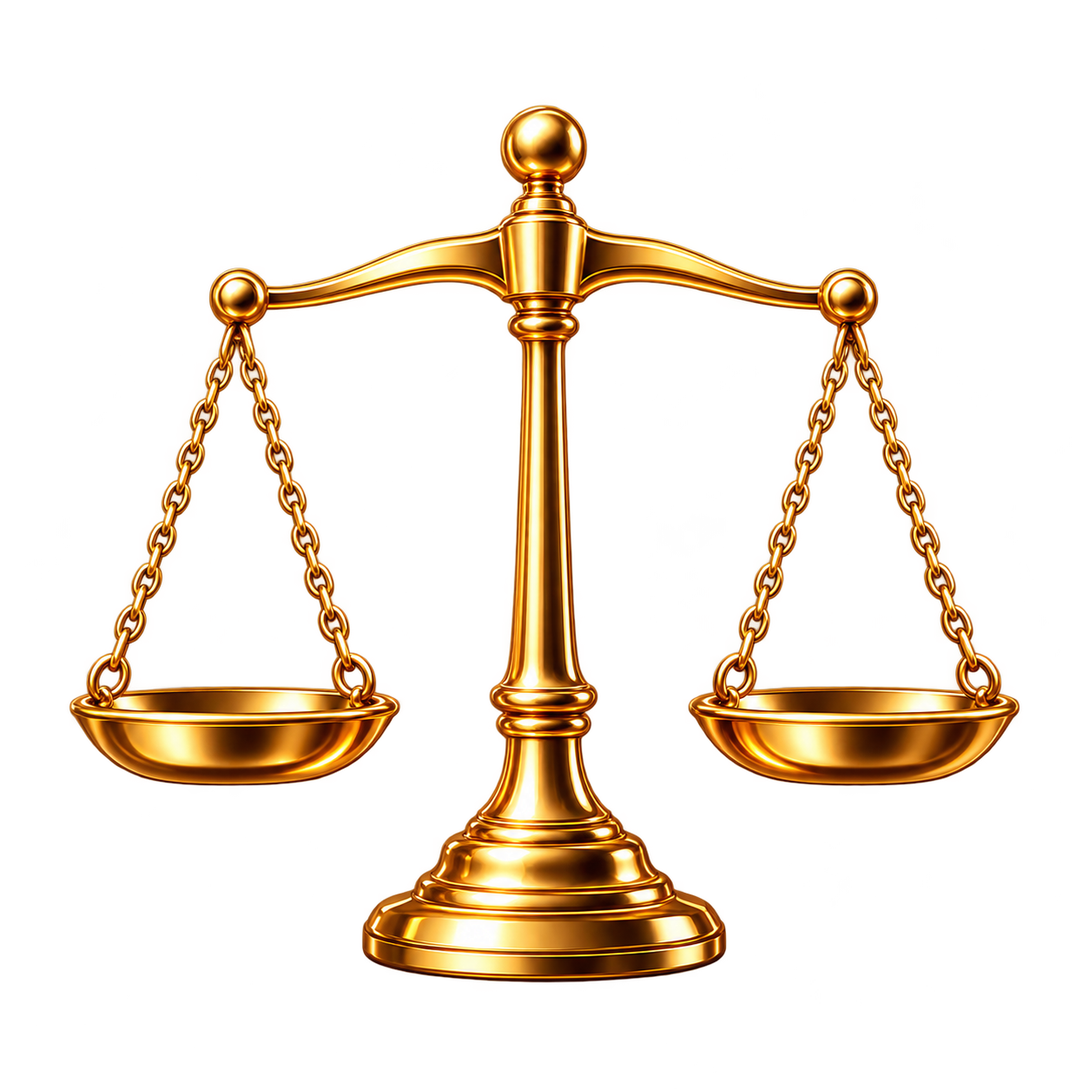
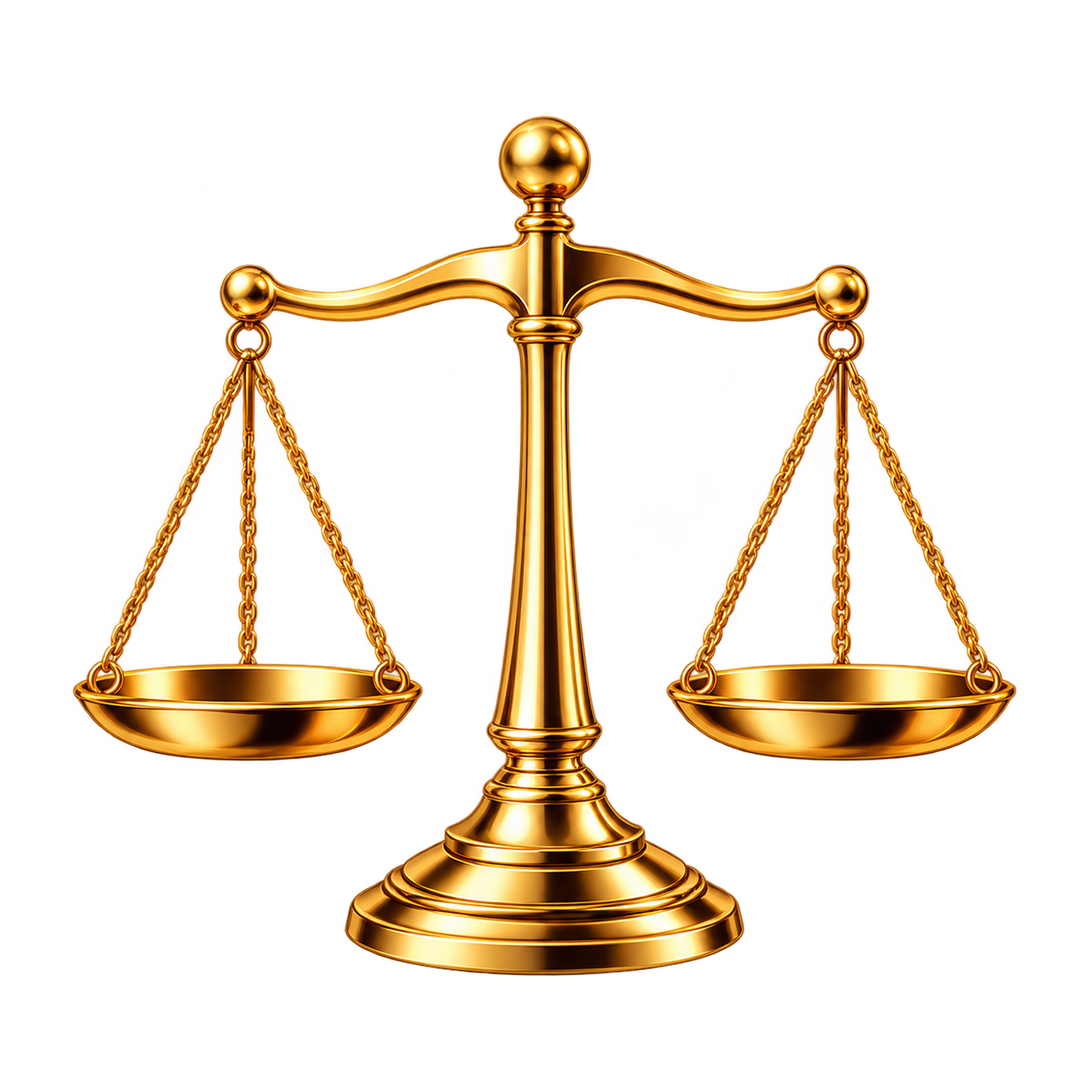
Add files via upload

Changed region(s): [[0.0622, 0.0933, 0.933, 0.9019]]

diff --git a/app.js b/app.js
@@ -4,8 +4,8 @@
    ===================================================================== */
 'use strict';
 
-var APP_VERSION='5.0.772';
-var APP_BUILD='5772';
+var APP_VERSION='5.0.773';
+var APP_BUILD='5773';
 
 /* ------------------------- state + encrypted local storage ------------------------- */
 var KEY = 'advokat_pro_v1'; // legacy localStorage key (migration only)
@@ -275,14 +275,14 @@ function materializeUseIcons(){
 }
 materializeUseIcons();
 function headerBell(){
-  return '<button class="today-bell app-header-bell premium-action-image" style="appearance:none!important;-webkit-appearance:none!important;position:absolute!important;top:0!important;right:2px!important;left:auto!important;bottom:auto!important;box-sizing:border-box!important;width:50px!important;height:50px!important;min-width:50px!important;min-height:50px!important;max-width:50px!important;max-height:50px!important;margin:0!important;padding:0!important;border:0!important;border-radius:15px!important;background:transparent!important;box-shadow:none!important;opacity:1!important;display:flex!important;align-items:center!important;justify-content:center!important;line-height:1!important;transform:none!important;filter:none!important;z-index:20!important" data-act="notify-sheet" aria-label="Уведомления"><img class="premium-action-art" src="header-bell-premium.png?v=5772" alt=""></button>';
+  return '<button class="today-bell app-header-bell premium-action-image" style="appearance:none!important;-webkit-appearance:none!important;position:absolute!important;top:0!important;right:2px!important;left:auto!important;bottom:auto!important;box-sizing:border-box!important;width:50px!important;height:50px!important;min-width:50px!important;min-height:50px!important;max-width:50px!important;max-height:50px!important;margin:0!important;padding:0!important;border:0!important;border-radius:15px!important;background:transparent!important;box-shadow:none!important;opacity:1!important;display:flex!important;align-items:center!important;justify-content:center!important;line-height:1!important;transform:none!important;filter:none!important;z-index:20!important" data-act="notify-sheet" aria-label="Уведомления"><img class="premium-action-art" src="header-bell-premium.png?v=5773" alt=""></button>';
 }
 function headerSearch(action,active,label){
   action=action||'global-search';
   label=label||'Поиск';
   var cls='app-header-search premium-action-image'+(active?' on':'');
   var style='appearance:none!important;-webkit-appearance:none!important;box-sizing:border-box!important;width:50px!important;height:50px!important;min-width:50px!important;min-height:50px!important;max-width:50px!important;max-height:50px!important;margin:0!important;padding:0!important;border:0!important;border-radius:15px!important;background:transparent!important;box-shadow:none!important;opacity:1!important;display:flex!important;align-items:center!important;justify-content:center!important;line-height:1!important;transform:none!important;filter:none!important';
-  return '<button class="'+cls+'" style="'+style+'" data-act="'+esc(action)+'" title="'+esc(label)+'" aria-label="'+esc(label)+'" type="button"><img class="premium-action-art" src="header-search-premium.png?v=5772" alt=""></button>';
+  return '<button class="'+cls+'" style="'+style+'" data-act="'+esc(action)+'" title="'+esc(label)+'" aria-label="'+esc(label)+'" type="button"><img class="premium-action-art" src="header-search-premium.png?v=5773" alt=""></button>';
 }
 function matterHeaderAction(action,icon,active,label,extraClass){
   label=label||'';
@@ -291,11 +291,11 @@ function matterHeaderAction(action,icon,active,label,extraClass){
 function headerMatterFilter(active){
   var cls='today-bell app-header-filter premium-action-image'+(active?' on':'');
   var style='appearance:none!important;-webkit-appearance:none!important;position:absolute!important;top:0!important;right:2px!important;left:auto!important;bottom:auto!important;box-sizing:border-box!important;width:50px!important;height:50px!important;min-width:50px!important;min-height:50px!important;max-width:50px!important;max-height:50px!important;margin:0!important;padding:0!important;border:0!important;border-radius:15px!important;background:transparent!important;box-shadow:none!important;opacity:1!important;display:flex!important;align-items:center!important;justify-content:center!important;line-height:1!important;transform:none!important;filter:none!important;z-index:20!important;overflow:visible!important';
-  return '<button class="'+cls+'" style="'+style+'" data-act="matter-filter-sheet" title="Фильтры и сортировка" aria-label="Фильтры и сортировка" type="button"><img class="premium-action-art" src="header-filter-premium.png?v=5772" alt=""></button>';
+  return '<button class="'+cls+'" style="'+style+'" data-act="matter-filter-sheet" title="Фильтры и сортировка" aria-label="Фильтры и сортировка" type="button"><img class="premium-action-art" src="header-filter-premium.png?v=5773" alt=""></button>';
 }
 function mainBrandHeader(withBell,rightAction){
   var bell = rightAction || (withBell===false ? '' : headerBell());
-  return '<div class="today-brand main-brand-fixed app-main-brand" style="position:relative!important;box-sizing:border-box!important;width:100%!important;height:52px!important;min-height:52px!important;max-height:52px!important;margin:0 0 8px!important;padding:0 2px!important;display:flex!important;align-items:center!important;justify-content:flex-start!important;gap:12px!important;transform:none!important"><div class="today-brand-left"><span class="today-logo"><img src="scale-gold.webp?v=5772" alt="Весы правосудия"></span><div><b>Ежедневник адвоката</b><small>Больше, чем календарь</small></div></div>'+bell+'</div>';
+  return '<div class="today-brand main-brand-fixed app-main-brand" style="position:relative!important;box-sizing:border-box!important;width:100%!important;height:52px!important;min-height:52px!important;max-height:52px!important;margin:0 0 8px!important;padding:0 2px!important;display:flex!important;align-items:center!important;justify-content:flex-start!important;gap:12px!important;transform:none!important"><div class="today-brand-left"><span class="today-logo"><img src="scale-gold.webp?v=5773" alt="Весы правосудия"></span><div><b>Ежедневник адвоката</b><small>Больше, чем календарь</small></div></div>'+bell+'</div>';
 }
 function brandLine(){ return '<div class="brandline">'+ico('scale','s')+'<span>Ежедневник адвоката</span><i>OFFLINE</i></div>'; }
 function iso(d){ return d.getFullYear()+'-'+String(d.getMonth()+1).padStart(2,'0')+'-'+String(d.getDate()).padStart(2,'0'); }
@@ -723,12 +723,12 @@ function renderPremiumListPicker(){
   // спокойной командой и не смешивается с реальными делами и их категориями.
   var canClear=isMatterPicker&&LIST_PICKER.target==='e-mid'&&!!String(LIST_PICKER.selected||'').trim();
   var clearMatter=canClear?'<button type="button" class="premium-matter-clear" data-act="list-matter-clear">'+ico('xmark','s')+'<span>Снять привязку к делу</span></button>':'';
-  var headIconHtml=isCourtPicker?'<span class="premium-list-head-icon premium-court-head-scales"><img src="scale-gold.webp?v=5772" alt="Весы правосудия"></span>':'<span class="premium-list-head-icon">'+ico(LIST_PICKER.meta.icon||'list')+'</span>';
+  var headIconHtml=isCourtPicker?'<span class="premium-list-head-icon premium-court-head-scales"><img src="scale-gold.webp?v=5773" alt="Весы правосудия"></span>':'<span class="premium-list-head-icon">'+ico(LIST_PICKER.meta.icon||'list')+'</span>';
   modal.innerHTML='<div class="premium-list-grab"></div>'+ 
     '<div class="premium-list-head">'+headIconHtml+'<div><h3>'+esc(LIST_PICKER.meta.title)+'</h3><p>'+esc(LIST_PICKER.meta.sub)+'</p></div><button type="button" class="premium-list-close" data-act="list-close" aria-label="Закрыть">'+ico('xmark','s')+'</button></div>'+ 
     '<div class="premium-list-ornament" aria-hidden="true"><i></i><span></span><i></i></div>'+ 
     search+'<div class="premium-list-body">'+list+'</div>'+clearMatter+ 
-    '<div class="premium-list-sign"><i></i><span><img class="premium-list-sign-logo" src="scale-gold.webp?v=5772" alt="Весы правосудия"></span><i></i></div>';
+    '<div class="premium-list-sign"><i></i><span><img class="premium-list-sign-logo" src="scale-gold.webp?v=5773" alt="Весы правосудия"></span><i></i></div>';
 }
 
 function syncPremiumSelectButton(id){
@@ -2670,7 +2670,7 @@ function drawHearingResultSheet(){
     '<div class="fld hearing-result-note-field"><label>Итог / примечание</label><div class="hearing-result-note-shell"><textarea id="hr-note" rows="4" maxlength="1000" placeholder="Например: допрошен свидетель, исследованы материалы, суд отложил рассмотрение…">'+esc(noteValue)+'</textarea></div></div>'+ 
     '<div class="hint hearing-result-hint"><span class="hearing-result-hint-icon">'+ico('info','s')+'</span><p>После сохранения заседание уйдёт с главной страницы и останется в истории. Для связанного дела результат автоматически попадёт в журнал.</p></div>'+ 
     '<div class="hearing-result-v355-action"><button class="btn hearing-result-save" data-act="hearing-result-save"><span>Сохранить результат</span>'+ico('chev','s')+'</button></div>'+ 
-    '<div class="hearing-result-v355-sign" aria-hidden="true"><i></i><span><img src="scale-gold.webp?v=5772" alt="Весы правосудия"></span><i></i></div>');
+    '<div class="hearing-result-v355-sign" aria-hidden="true"><i></i><span><img src="scale-gold.webp?v=5773" alt="Весы правосудия"></span><i></i></div>');
   var sheet=$('#sheet');
   sheet.classList.add('hearing-result-sheet','hearing-result-v355');
   sheet.scrollTop=oldScroll;
@@ -2781,7 +2781,7 @@ function sheetTaskTypeFilters(){
 
   openSheet(
     '<div class="filter-premium-head task-filter-premium-head">'+
-      '<span class="task-filter-brand-mark"><img src="scale-gold.webp?v=5772" alt=""></span>'+
+      '<span class="task-filter-brand-mark"><img src="scale-gold.webp?v=5773" alt=""></span>'+
       '<div class="task-filter-head-copy"><h2>Фильтр записей</h2><p>Выберите тип записи</p></div>'+
       '<button type="button" class="task-filter-close" data-act="close" aria-label="Закрыть">'+ico('xmark','s')+'</button>'+
     '</div>'+
@@ -2940,7 +2940,7 @@ function sheetMatterFilters(){
     row('m-sort','stage','flag','По стадии','По этапу производства',sortCount,'#7D5CE4',S.ui.matterSort==='stage');
   openSheet(
     '<div class="matter-filter-premium-head">'+
-      '<span class="matter-filter-brand-mark"><img src="scale-gold.webp?v=5772" alt=""></span>'+ 
+      '<span class="matter-filter-brand-mark"><img src="scale-gold.webp?v=5773" alt=""></span>'+ 
       '<div class="matter-filter-head-copy"><h2>Фильтр дел</h2><p>Состояние, тип, основание, стадия и сортировка</p></div>'+ 
       '<button type="button" class="matter-filter-close" data-act="close" aria-label="Закрыть">'+ico('xmark','s')+'</button>'+ 
     '</div>'+ 
@@ -3916,7 +3916,7 @@ function renderQuickEntryTop190(title,currentKind){
   var longTitle=title.length>20?' qe190-title-long':'';
   if(editTitle) longTitle+=' qe190-title-edit';
   return '<section class="qe190-top qe190-kind-'+esc(currentKind)+(editTitle?' qe190-mode-edit':' qe190-mode-create')+'">'+
-    '<div class="qe190-brand"><img src="scale-gold.webp?v=5772" alt="Весы правосудия"><div class="qe190-brand-copy"><b>Ежедневник адвоката</b><small>Больше, чем календарь</small></div></div>'+
+    '<div class="qe190-brand"><img src="scale-gold.webp?v=5773" alt="Весы правосудия"><div class="qe190-brand-copy"><b>Ежедневник адвоката</b><small>Больше, чем календарь</small></div></div>'+
     '<div class="qe190-brand-rule" aria-hidden="true"><i></i><span></span><i></i></div>'+
     '<div class="qe190-heading">'+
       '<button type="button" class="qe190-back" data-act="close" aria-label="Назад">'+ico('left')+'</button>'+
@@ -4651,11 +4651,11 @@ function quickItem(i,t,act,tone){
      восстановленным по утверждённому макету 5.100. Иконка и золотая дуга больше
      не собираются из двух независимых фрагментов, поэтому стык не может разойтись. */
   var art={
-    'qa-hearing':'quick-card-hearing-v5100.png?v=5772',
-    'qa-meeting':'quick-card-meeting-v5100.png?v=5772',
-    'qa-deadline':'quick-card-deadline-v5100.png?v=5772',
-    'qa-task':'quick-card-task-v5100.png?v=5772',
-    'qa-journal':'quick-card-journal-v5100.png?v=5772'
+    'qa-hearing':'quick-card-hearing-v5100.png?v=5773',
+    'qa-meeting':'quick-card-meeting-v5100.png?v=5773',
+    'qa-deadline':'quick-card-deadline-v5100.png?v=5773',
+    'qa-task':'quick-card-task-v5100.png?v=5773',
+    'qa-journal':'quick-card-journal-v5100.png?v=5773'
   }[act]||'';
   if(art){
     return '<button class="quickitem quickitem-v5100 q-'+(tone||'slate')+'" data-act="'+act+'" aria-label="'+esc(t)+'"><img class="quickcard-v5100" src="'+art+'" alt=""></button>';
@@ -4664,7 +4664,7 @@ function quickItem(i,t,act,tone){
 }
 function premiumActionIcon(type,cls){
   cls=cls||'premium-sheet-action-icon';
-  var src=type==='bell'?'header-bell-premium.png?v=5772':type==='search'?'header-search-premium.png?v=5772':type==='plus'?'fab-plus-square-premium.png?v=5772':'';
+  var src=type==='bell'?'header-bell-premium.png?v=5773':type==='search'?'header-search-premium.png?v=5773':type==='plus'?'fab-plus-square-premium.png?v=5773':'';
   if(src) return '<span class="'+cls+'"><img src="'+src+'" alt=""></span>';
   return '<span class="filter-premium-head-icon">'+ico(type)+'</span>';
 }
@@ -4773,7 +4773,7 @@ function sheetGlobalSearch(){
   openSheet('<section class="gs166 gs153">'+
     '<header class="gs166-head gs153-head">'+
       '<div class="gs166-head-copy gs153-head-copy"><h2>Глобальный поиск</h2><p><span>Доверители, номера дел, суды, статьи,</span><span>задачи и журнал.</span></p></div>'+
-      '<img class="gs166-head-motif" src="global-search-head-motif-v173.png?v=5772" alt="" aria-hidden="true">'+
+      '<img class="gs166-head-motif" src="global-search-head-motif-v173.png?v=5773" alt="" aria-hidden="true">'+
     '</header>'+
     '<div class="gs166-searchwrap">'+
       '<label class="gs166-search gs153-search" for="gq">'+
@@ -4815,7 +4815,7 @@ function sheetGlobalSearch(){
         '<button type="button" class="gs153-close" data-act="global-search-clear-tip" aria-label="Закрыть подсказку">'+ico('xmark','s')+'</button>'+
       '</div>'+
     '</div>'+
-    '<footer class="gs166-footer gs153-footer"><span></span><img src="reminder-footer-scales-exact.png?v=5772" alt=""><span></span><b>ПРАВО И ПОРЯДОК</b></footer>'+
+    '<footer class="gs166-footer gs153-footer"><span></span><img src="reminder-footer-scales-exact.png?v=5773" alt=""><span></span><b>ПРАВО И ПОРЯДОК</b></footer>'+
   '</section>');
   $('#sheet').classList.add('global-search-premium-v166-sheet');
   renderGlobalSearch();
@@ -5146,7 +5146,7 @@ function sheetNotify(){
   openSheet('<section class="rem116">'+
     '<header class="rem116-head">'+
       '<div class="rem116-head-copy"><h2>Напоминания</h2><p><span>Локальное напоминание за 10 минут</span><span>до задачи и за час до заседания.</span></p></div>'+
-      '<img class="rem116-head-motif" src="reminder-head-motif-exact.png?v=5772" alt="">'+
+      '<img class="rem116-head-motif" src="reminder-head-motif-exact.png?v=5773" alt="">'+
     '</header>'+
     '<article class="rem116-card rem116-card-local">'+
       '<span class="rem116-card-icon">'+ico('bell','s')+'</span>'+
@@ -5160,7 +5160,7 @@ function sheetNotify(){
     '</article>'+
     '<button class="rem116-toggle" data-act="notify" type="button" aria-label="'+toggleText+'"><span class="rem116-toggle-bell">'+ico('bell','s')+'</span><span class="rem116-toggle-text">'+toggleText+'</span><span class="rem116-toggle-chevron">'+ico('chev','s')+'</span></button>'+
     '<p class="rem116-note">Вы всегда сможете включить их снова в настройках.</p>'+
-    '<footer class="rem116-footer"><span></span><img class="rem116-footer-scale" src="reminder-footer-scales-exact.png?v=5772" alt=""><span></span><b>ДЕЛА В ПОРЯДКЕ</b></footer>'+
+    '<footer class="rem116-footer"><span></span><img class="rem116-footer-scale" src="reminder-footer-scales-exact.png?v=5773" alt=""><span></span><b>ДЕЛА В ПОРЯДКЕ</b></footer>'+
   '</section>');
   $('#sheet').classList.add('reminders-approved-v117-sheet');
 }
@@ -6161,7 +6161,7 @@ if('serviceWorker' in navigator){
        register only after the UI is already usable; do not force an update,
        reload, navigation or controller switch during launch. */
     setTimeout(function(){
-      navigator.serviceWorker.register('./sw.js?v=5772',{updateViaCache:'none'})
+      navigator.serviceWorker.register('./sw.js?v=5773',{updateViaCache:'none'})
         .then(function(reg){ return reg.update().catch(function(){}); })
         .catch(function(){});
     },1400);
@@ -6310,7 +6310,7 @@ function matterFolderTypeIcon(type){
   return type==='admin'?'scale':type==='criminal'?'gavel':type==='civil'?'people':'doc';
 }
 
-// Staged reconstruction of folder contents. 5.0.772 keeps the approved type label
+// Staged reconstruction of folder contents. 5.0.773 keeps the approved type label
 // and now mounts the first large 3D icon for every production type, using the
 // standalone rendered assets approved from the mockup.
 var MATTER_FOLDER_SHOW_CONTENT=false;
@@ -6669,8 +6669,8 @@ function matterCard(m, idx){
   var fullMeta=[m.stage,m.court].filter(Boolean).join(' · '),meta=matterFolderCompactMeta(m);
   var statusText=badge?(badge.tone==='result'?'Нужно внести результат заседания':badge.tone==='urgent'?'Есть просроченные записи':badge.text):'';
   var accessible=['Открыть дело: '+(m.client||lead),subject,m.number?'№ '+m.number:'',fullMeta,statusText,next.text].filter(Boolean).join('. ');
-  // 5.0.772 — keep only the production type on the approved inner tab for now.
-  // 5.0.772 — stage 3: mount the approved standalone icon for each folder type.
+  // 5.0.773 — keep only the production type on the approved inner tab for now.
+  // 5.0.773 — stage 3: mount the approved standalone icon for each folder type.
   // No other content is mounted yet, so the approved folder shell remains the visual baseline.
   var inner='<span class="case-folder-label">'+esc(label)+'</span>';
   var stage3Kind=matterFolderStage3IconType(type);

diff --git a/index.html b/index.html
@@ -2,25 +2,25 @@
 <html lang="ru">
 <head>
 <meta charset="utf-8">
-<meta name="app-build" content="5772">
+<meta name="app-build" content="5773">
 <meta name="viewport" content="width=device-width,initial-scale=1,maximum-scale=1,viewport-fit=cover">
 <title>Ежедневник адвоката</title>
-<link rel="manifest" href="manifest.webmanifest?v=5772">
-<link rel="stylesheet" href="styles.css?v=5772">
-<link rel="stylesheet" href="new-matter-client.css?v=5772">
-<link rel="stylesheet" href="new-matter-stage.css?v=5772">
-<link rel="stylesheet" href="new-matter-values.css?v=5772">
-<link rel="stylesheet" href="new-matter-save.css?v=5772">
-<link rel="stylesheet" href="cases-folders.css?v=5772">
-<link rel="preload" href="app.js?v=5772" as="script">
-<link rel="preload" href="scale-gold.webp?v=5772" as="image" fetchpriority="high">
+<link rel="manifest" href="manifest.webmanifest?v=5773">
+<link rel="stylesheet" href="styles.css?v=5773">
+<link rel="stylesheet" href="new-matter-client.css?v=5773">
+<link rel="stylesheet" href="new-matter-stage.css?v=5773">
+<link rel="stylesheet" href="new-matter-values.css?v=5773">
+<link rel="stylesheet" href="new-matter-save.css?v=5773">
+<link rel="stylesheet" href="cases-folders.css?v=5773">
+<link rel="preload" href="app.js?v=5773" as="script">
+<link rel="preload" href="scale-gold.webp?v=5773" as="image" fetchpriority="high">
 <link rel="preload" href="bg-today-desk.webp" as="image">
 <link rel="preload" href="nav-panel-light.png" as="image">
-<link rel="preload" href="nav-active-today.png?v=5772" as="image">
-<link rel="preload" href="header-bell-premium.png?v=5772" as="image">
-<link rel="preload" href="header-search-premium.png?v=5772" as="image">
-<link rel="preload" href="fab-plus-square-premium.png?v=5772" as="image">
-<link rel="preload" href="quick-sheet-mobile-approved-v5211.webp?v=5772" as="image">
+<link rel="preload" href="nav-active-today.png?v=5773" as="image">
+<link rel="preload" href="header-bell-premium.png?v=5773" as="image">
+<link rel="preload" href="header-search-premium.png?v=5773" as="image">
+<link rel="preload" href="fab-plus-square-premium.png?v=5773" as="image">
+<link rel="preload" href="quick-sheet-mobile-approved-v5211.webp?v=5773" as="image">
 <meta name="theme-color" content="#F4F6F9">
 <meta name="mobile-web-app-capable" content="yes">
 <meta name="apple-mobile-web-app-capable" content="yes">
@@ -29,17 +29,17 @@
 <meta name="apple-mobile-web-app-title" content="Адвокат">
 <meta name="format-detection" content="telephone=no">
 <meta name="color-scheme" content="light">
-<link rel="apple-touch-icon" sizes="180x180" href="premium-icon-180.png?v=5772">
-<link rel="apple-touch-icon-precomposed" sizes="180x180" href="premium-icon-180.png?v=5772">
-<link rel="icon" href="premium-icon-192.png?v=5772">
+<link rel="apple-touch-icon" sizes="180x180" href="premium-icon-180.png?v=5773">
+<link rel="apple-touch-icon-precomposed" sizes="180x180" href="premium-icon-180.png?v=5773">
+<link rel="icon" href="premium-icon-192.png?v=5773">
 <style id="ios-pwa-nav-critical">
 :root{--ios-nav-top:calc(100dvh - 75px);--ios-fab-top:calc(100dvh - 144px)}
 #tabbar.premium-nav{position:fixed!important;left:12px!important;right:12px!important;top:var(--ios-nav-top)!important;bottom:auto!important;z-index:1000!important}
 #fab.fab{position:fixed!important;top:var(--ios-fab-top)!important;bottom:auto!important;z-index:1001!important}
 @media(max-width:390px){:root{--ios-nav-top:calc(100dvh - 73px);--ios-fab-top:calc(100dvh - 137px)}#tabbar.premium-nav{left:10px!important;right:10px!important}#fab.fab{top:var(--ios-fab-top)!important;bottom:auto!important}}
 </style>
-<link rel="preload" href="premium-gold-type-v5249.webp?v=5772" as="image" type="image/webp">
-<link rel="preload" href="premium-gold-save-v5249.webp?v=5772" as="image" type="image/webp">
+<link rel="preload" href="premium-gold-type-v5249.webp?v=5773" as="image" type="image/webp">
+<link rel="preload" href="premium-gold-save-v5249.webp?v=5773" as="image" type="image/webp">
 </head>
 <body class="light">
 
@@ -229,6 +229,6 @@
 </div>
 
 <input type="file" id="file" accept=".json" style="display:none">
-<script src="app.js?v=5772"></script>
+<script src="app.js?v=5773"></script>
 </body>
 </html>

diff --git a/sw.js b/sw.js
@@ -1,62 +1,62 @@
-const CACHE = 'advokat-iphone-offline-v151-premium-5772';
+const CACHE = 'advokat-iphone-offline-v151-premium-5773';
 
 const CORE = [
   './',
   './index.html',
-  './styles.css?v=5772',
-  './cases-folders.css?v=5772',
-  './new-matter-client.css?v=5772',
-  './new-matter-stage.css?v=5772',
-  './new-matter-values.css?v=5772',
-  './new-matter-save.css?v=5772',
-  './app.js?v=5772',
-  './manifest.webmanifest?v=5772',
+  './styles.css?v=5773',
+  './cases-folders.css?v=5773',
+  './new-matter-client.css?v=5773',
+  './new-matter-stage.css?v=5773',
+  './new-matter-values.css?v=5773',
+  './new-matter-save.css?v=5773',
+  './app.js?v=5773',
+  './manifest.webmanifest?v=5773',
   './VERSION.txt',
   './premium-icon-180.png',
   './premium-icon-192.png',
   './premium-icon-512.png',
-  './premium-icon-180.png?v=5772',
-  './premium-icon-192.png?v=5772',
+  './premium-icon-180.png?v=5773',
+  './premium-icon-192.png?v=5773',
   './bg-today-desk.webp',
   './bg-tasks-planner.webp',
   './bg-matters-folders.webp',
   './bg-matters-approved-v487.png',
-  './scale-gold.webp?v=5772',
+  './scale-gold.webp?v=5773',
   './bg-cal-marble-calendar.webp',
   './bg-more-marble-office.webp',
-  './premium-gold-type-v5249.webp?v=5772',
-  './premium-gold-save-v5249.webp?v=5772',
-  './quick-sheet-mobile-approved-v5211.webp?v=5772',
-  './quick-sheet-marble-approved.webp?v=5772',
-  './columns-light.png?v=5772',
-  './header-bell-premium.png?v=5772',
-  './header-search-premium.png?v=5772',
-  './header-filter-premium.png?v=5772',
-  './bg-new-matter-approved.webp?v=5772',
-  './nm-folder-mockup.png?v=5772',
-  './nm-scale-mockup.png?v=5772',
-  './nm-doc-mockup.png?v=5772',
-  './global-search-head-motif-v173.png?v=5772',
-  './fab-plus-square-premium.png?v=5772',
+  './premium-gold-type-v5249.webp?v=5773',
+  './premium-gold-save-v5249.webp?v=5773',
+  './quick-sheet-mobile-approved-v5211.webp?v=5773',
+  './quick-sheet-marble-approved.webp?v=5773',
+  './columns-light.png?v=5773',
+  './header-bell-premium.png?v=5773',
+  './header-search-premium.png?v=5773',
+  './header-filter-premium.png?v=5773',
+  './bg-new-matter-approved.webp?v=5773',
+  './nm-folder-mockup.png?v=5773',
+  './nm-scale-mockup.png?v=5773',
+  './nm-doc-mockup.png?v=5773',
+  './global-search-head-motif-v173.png?v=5773',
+  './fab-plus-square-premium.png?v=5773',
   './nav-panel-light.png',
-  './nav-panel-light.png?v=5772',
-  './nav-active-base.png?v=5772',
-  './nav-active-today.png?v=5772',
-  './nav-active-tasks.png?v=5772',
-  './nav-active-cases.png?v=5772',
-  './nav-active-calendar.png?v=5772',
-  './nav-active-more.png?v=5772',
-  './reminder-head-motif-exact.png?v=5772',
-  './reminder-footer-scales-exact.png?v=5772',
-  './quick-card-task-v5100.png?v=5772',
-  './quick-card-hearing-v5100.png?v=5772',
-  './quick-card-meeting-v5100.png?v=5772',
-  './quick-card-deadline-v5100.png?v=5772',
-  './quick-card-journal-v5100.png?v=5772',
-  './folder-icon-scales-admin-v771.png?v=5772',
-  './folder-icon-gavel-criminal-v770.png?v=5772',
-  './folder-icon-people-civil-v770.png?v=5772',
-  './folder-icon-doc-koap-v770.png?v=5772'
+  './nav-panel-light.png?v=5773',
+  './nav-active-base.png?v=5773',
+  './nav-active-today.png?v=5773',
+  './nav-active-tasks.png?v=5773',
+  './nav-active-cases.png?v=5773',
+  './nav-active-calendar.png?v=5773',
+  './nav-active-more.png?v=5773',
+  './reminder-head-motif-exact.png?v=5773',
+  './reminder-footer-scales-exact.png?v=5773',
+  './quick-card-task-v5100.png?v=5773',
+  './quick-card-hearing-v5100.png?v=5773',
+  './quick-card-meeting-v5100.png?v=5773',
+  './quick-card-deadline-v5100.png?v=5773',
+  './quick-card-journal-v5100.png?v=5773',
+  './folder-icon-scales-admin-v771.png?v=5773',
+  './folder-icon-gavel-criminal-v770.png?v=5773',
+  './folder-icon-people-civil-v770.png?v=5773',
+  './folder-icon-doc-koap-v770.png?v=5773'
 ];
 
 self.addEventListener('install', event => {
